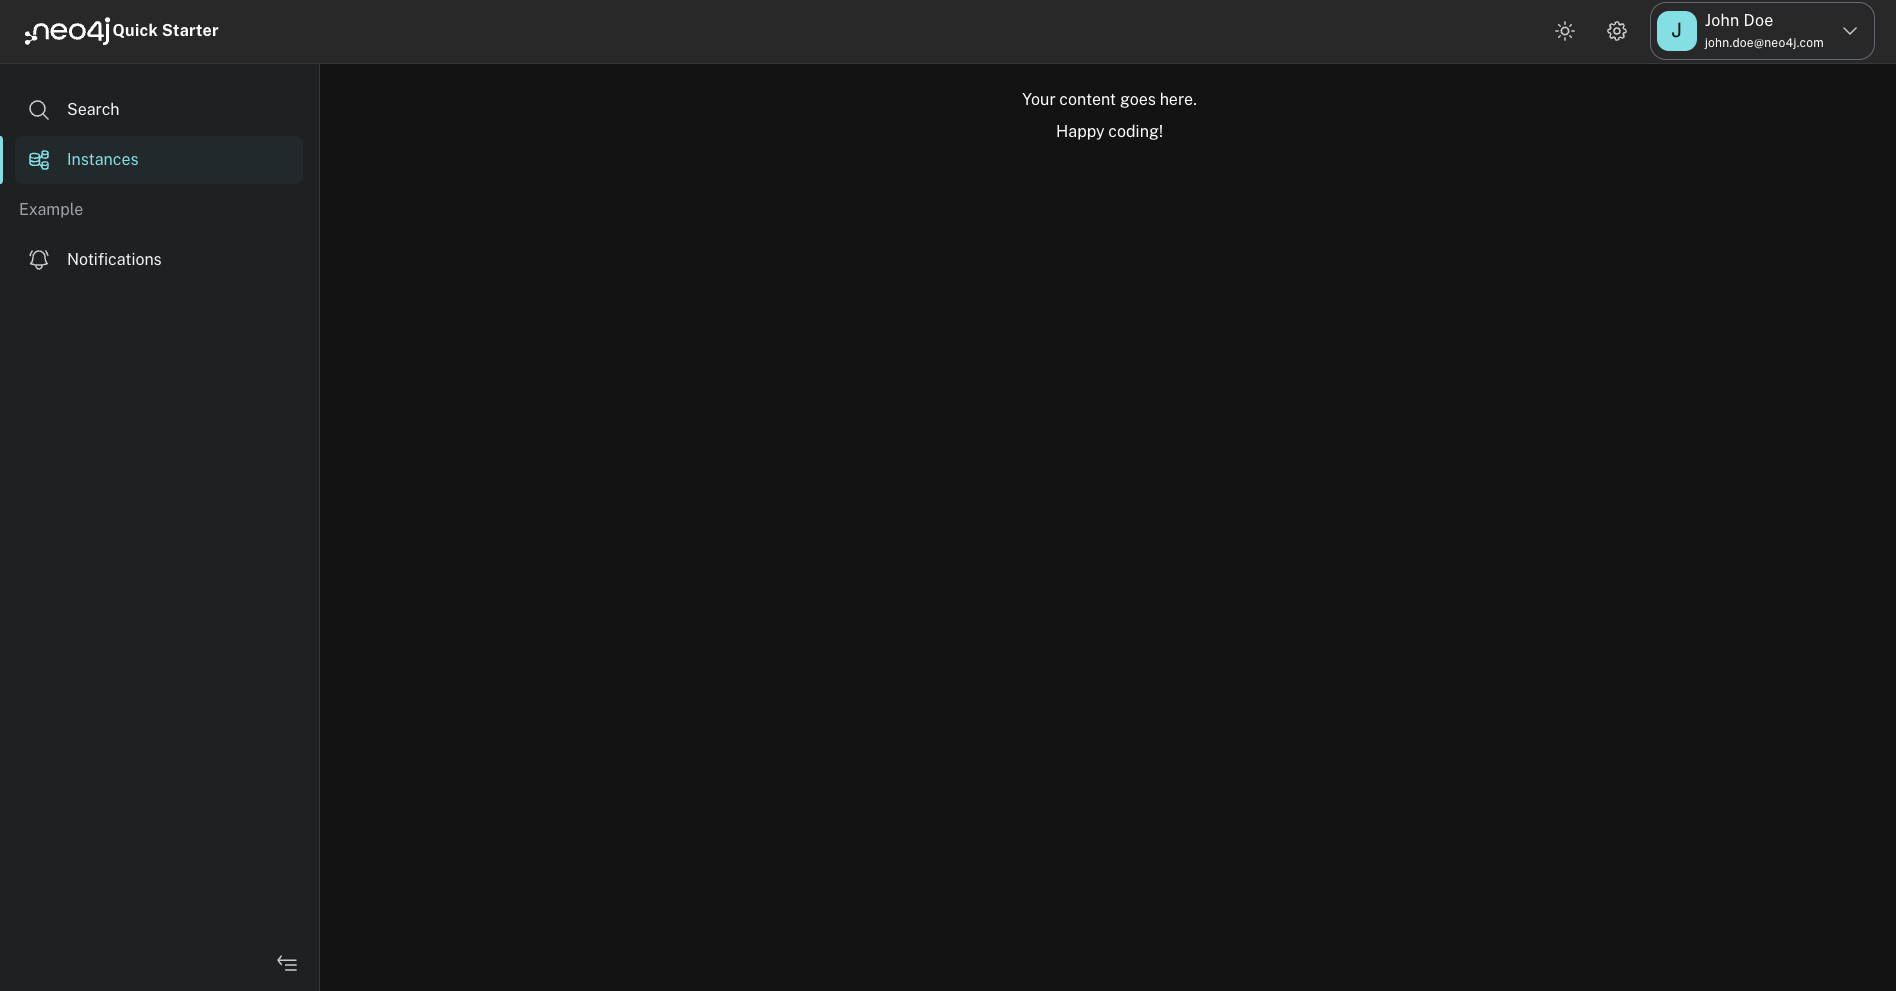
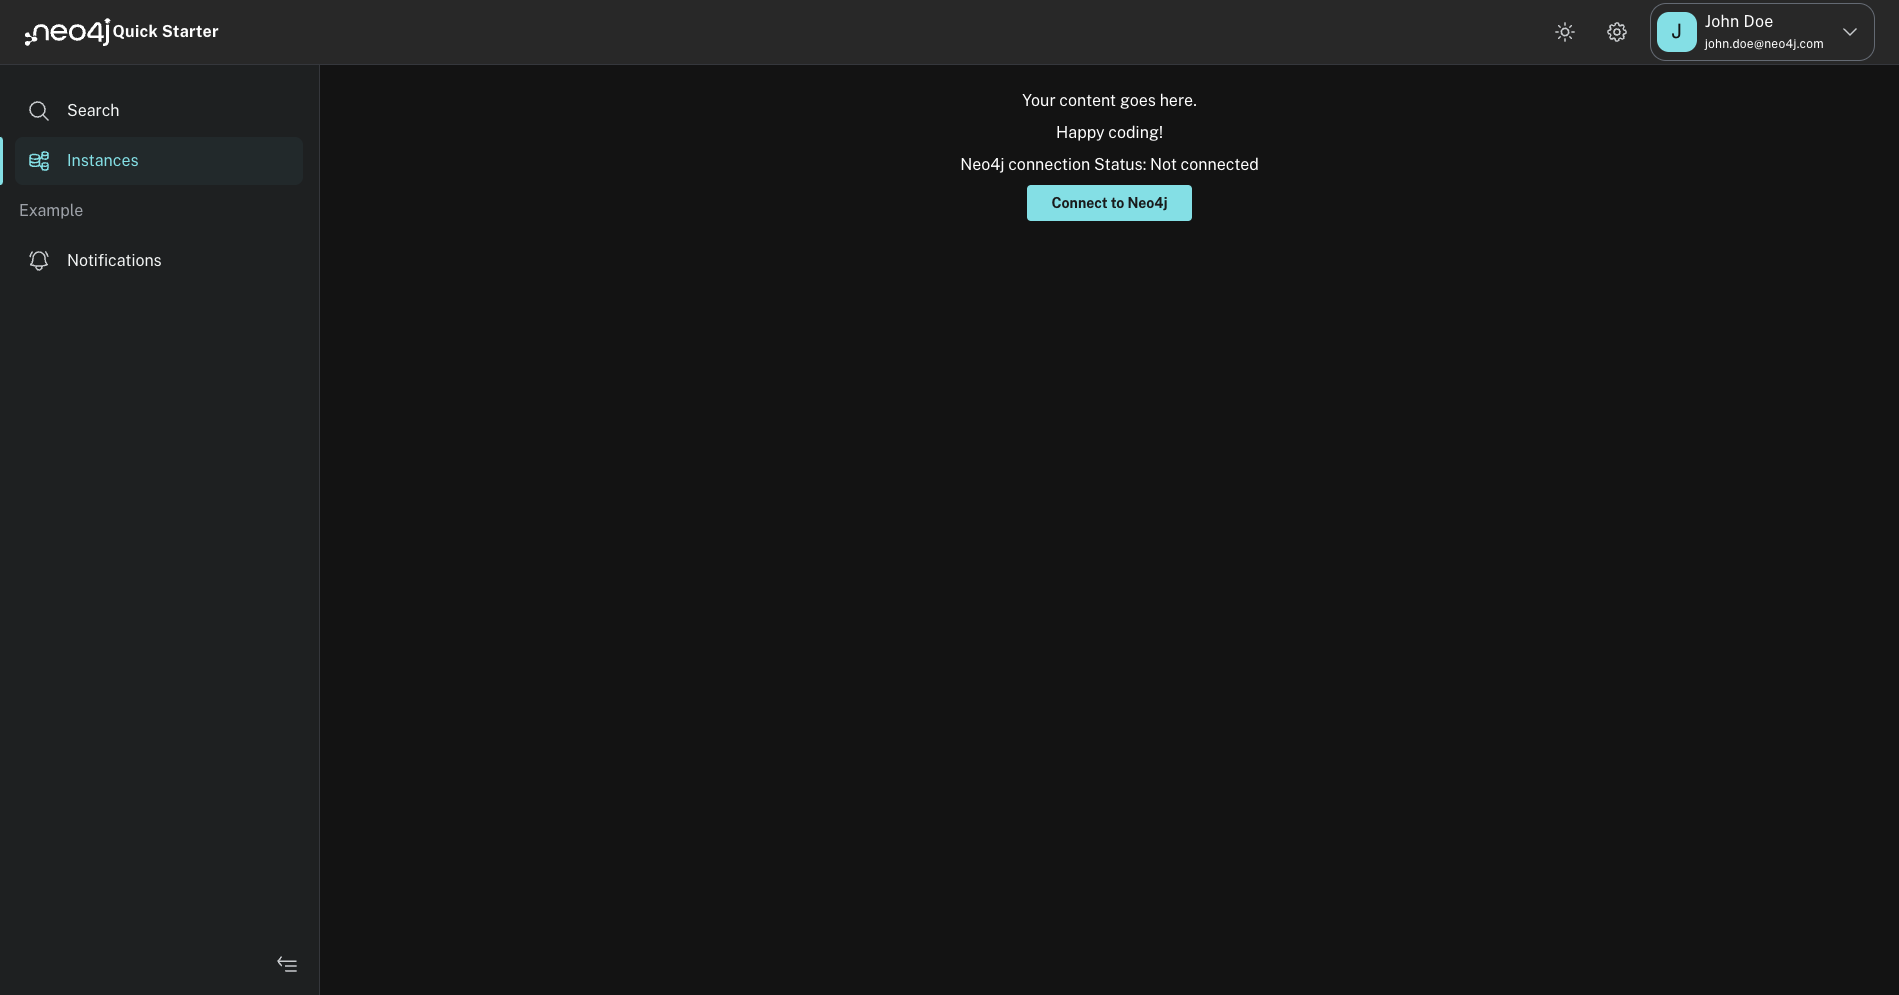
Adding Neo4j connection integration

diff --git a/src/components/ConnectionModal.tsx b/src/components/ConnectionModal.tsx
@@ -1,7 +1,41 @@
 import { Button, Dialog, TextInput, Dropdown } from '@neo4j-ndl/react';
+import {useState} from "react";
+import neo4j from "neo4j-driver";
 
-export default function ConnectionModal({open, setOpenConnection}) {
+export default function ConnectionModal({open, setOpenConnection, setConnectionStatus}) {
   const protocols = ['neo4j', 'neo4j+s', 'neo4j+ssc', 'bolt', 'bolt+s', 'bolt+ssc'];
+  const [selectedProtocol, setSelectedProtocol] = useState<string>('neo4j');
+  const [hostname, setHostname] = useState<string>('localhost');
+  const [port, setPort] = useState<number>(7687);
+  const [database, setDatabase] = useState<string>('neo4j');
+  const [username, setUsername] = useState<string>('neo4j');
+  const [password, setPassword] = useState<string>('password');
+
+  function onSelectProtocol(selectedProtocol:string){
+    setSelectedProtocol(selectedProtocol);
+}
+
+  function submitConnection(){
+    const connectionURI = selectedProtocol + "://" + hostname + ":" + port;
+    setDriver(connectionURI, database, username, password)
+    .then((msg) => {
+      setConnectionStatus(msg);
+    })
+    setOpenConnection(false) ;
+  }
+
+  async function setDriver (connectionURI, database, username, password){
+    let driver;
+
+    try{
+      driver = neo4j.driver(connectionURI,  neo4j.auth.basic(username, password))
+      const serverInfo = await driver.getServerInfo()
+      return "Connection succeed"
+    } catch (err){
+      console.log(`Connection error\n${err}\nCause: ${err.cause}`)
+      return "Connection failed"
+    }
+  }
 
   return (
     <>
@@ -20,8 +54,9 @@ export default function ConnectionModal({open, setOpenConnection}) {
               type='select'
               disabled={false}
               selectProps={{
+                onChange: (newValue) => newValue && setSelectedProtocol(newValue.value),
                 options: protocols.map((option) => ({ label: option, value: option })),
-                value: { label: 'protocol', value: 'protocol' },
+                value: { label: selectedProtocol, value: selectedProtocol },
               }}
               style={{ width: '25%', display: 'inline-block' }}
               fluid
@@ -29,34 +64,62 @@ export default function ConnectionModal({open, setOpenConnection}) {
             <div style={{ marginLeft: '2.5%', width: '55%', marginRight: '2.5%', display: 'inline-block' }}>
               <TextInput
                 id='url'
-                value=''
+                value={hostname}
                 disabled={false}
                 label='Hostname'
                 placeholder='localhost'
                 autoFocus
                 fluid
+                onChange={e => setHostname(e.target.value)}
               />
             </div>
             <div style={{ width: '15%', display: 'inline-block' }}>
               <TextInput
                 id='port'
-                value=''
+                value={port}
                 disabled={false}
                 label='Port'
                 placeholder='7687'
                 fluid
+                onChange={e => setPort(Number(e.target.value))}
               />
             </div>
           </div>
           <TextInput
             id='database'
-            value=''
+            value={database}
             disabled={false}
             label='Database (optional)'
             placeholder='neo4j'
             fluid
+            onChange={e => setDatabase(e.target.value)}
           />
-          <Button onClick={() => setOpenConnection(false)}>
+          <div className='n-flex n-flex-row n-flex-wrap'>
+            <div style={{width: '48.5%', marginRight: '1.5%', display: 'inline-block' }}>
+              <TextInput
+                id='username'
+                value={username}
+                disabled={false}
+                label='Username'
+                placeholder='neo4j'
+                fluid
+                onChange={e => setUsername(e.target.value)}
+              />
+            </div>
+            <div style={{width: '48.5%', marginLeft: '1.5%', display: 'inline-block' }}>
+              <TextInput
+                id='password'
+                value={password}
+                disabled={false}
+                label='Password'
+                placeholder='password'
+                type='password'
+                fluid
+                onChange={e => setPassword(e.target.value)}
+              />
+            </div>
+          </div>
+          <Button onClick={() => submitConnection()}>
             Submit
           </Button>
         </Dialog.Content>

diff --git a/src/components/Content.tsx b/src/components/Content.tsx
@@ -3,8 +3,10 @@ import {useState} from "react";
 import ConnectionModal from './ConnectionModal';
 import { Button } from "@neo4j-ndl/react";
 
+
 export default function Content() {
     const [openConnection, setOpenConnection] = useState<boolean>(false);
+    const [connectionStatus, setConnectionStatus] = useState<string>('Not connected');
 
   return (
     <Box
@@ -19,16 +21,20 @@ export default function Content() {
         gap: 1,
       }}
     >
-      <ConnectionModal open={openConnection} setOpenConnection={setOpenConnection} />
+      <ConnectionModal open={openConnection} setOpenConnection={setOpenConnection} setConnectionStatus={setConnectionStatus} />
       <div>
         Your content goes here.
       </div>
       <div>
         Happy coding!
       </div>
-      <Button onClick={() => setOpenConnection(true)}>
-        Connect to Neo4j
-      </Button>
+      <div>Neo4j connection Status: {connectionStatus}</div>
+      {connectionStatus == 'Not connected' || connectionStatus == 'Connection failed' ? 
+        <Button onClick={() => setOpenConnection(true)}>
+          Connect to Neo4j
+        </Button>
+        : <></>
+      }
     </Box>
   );
 }
